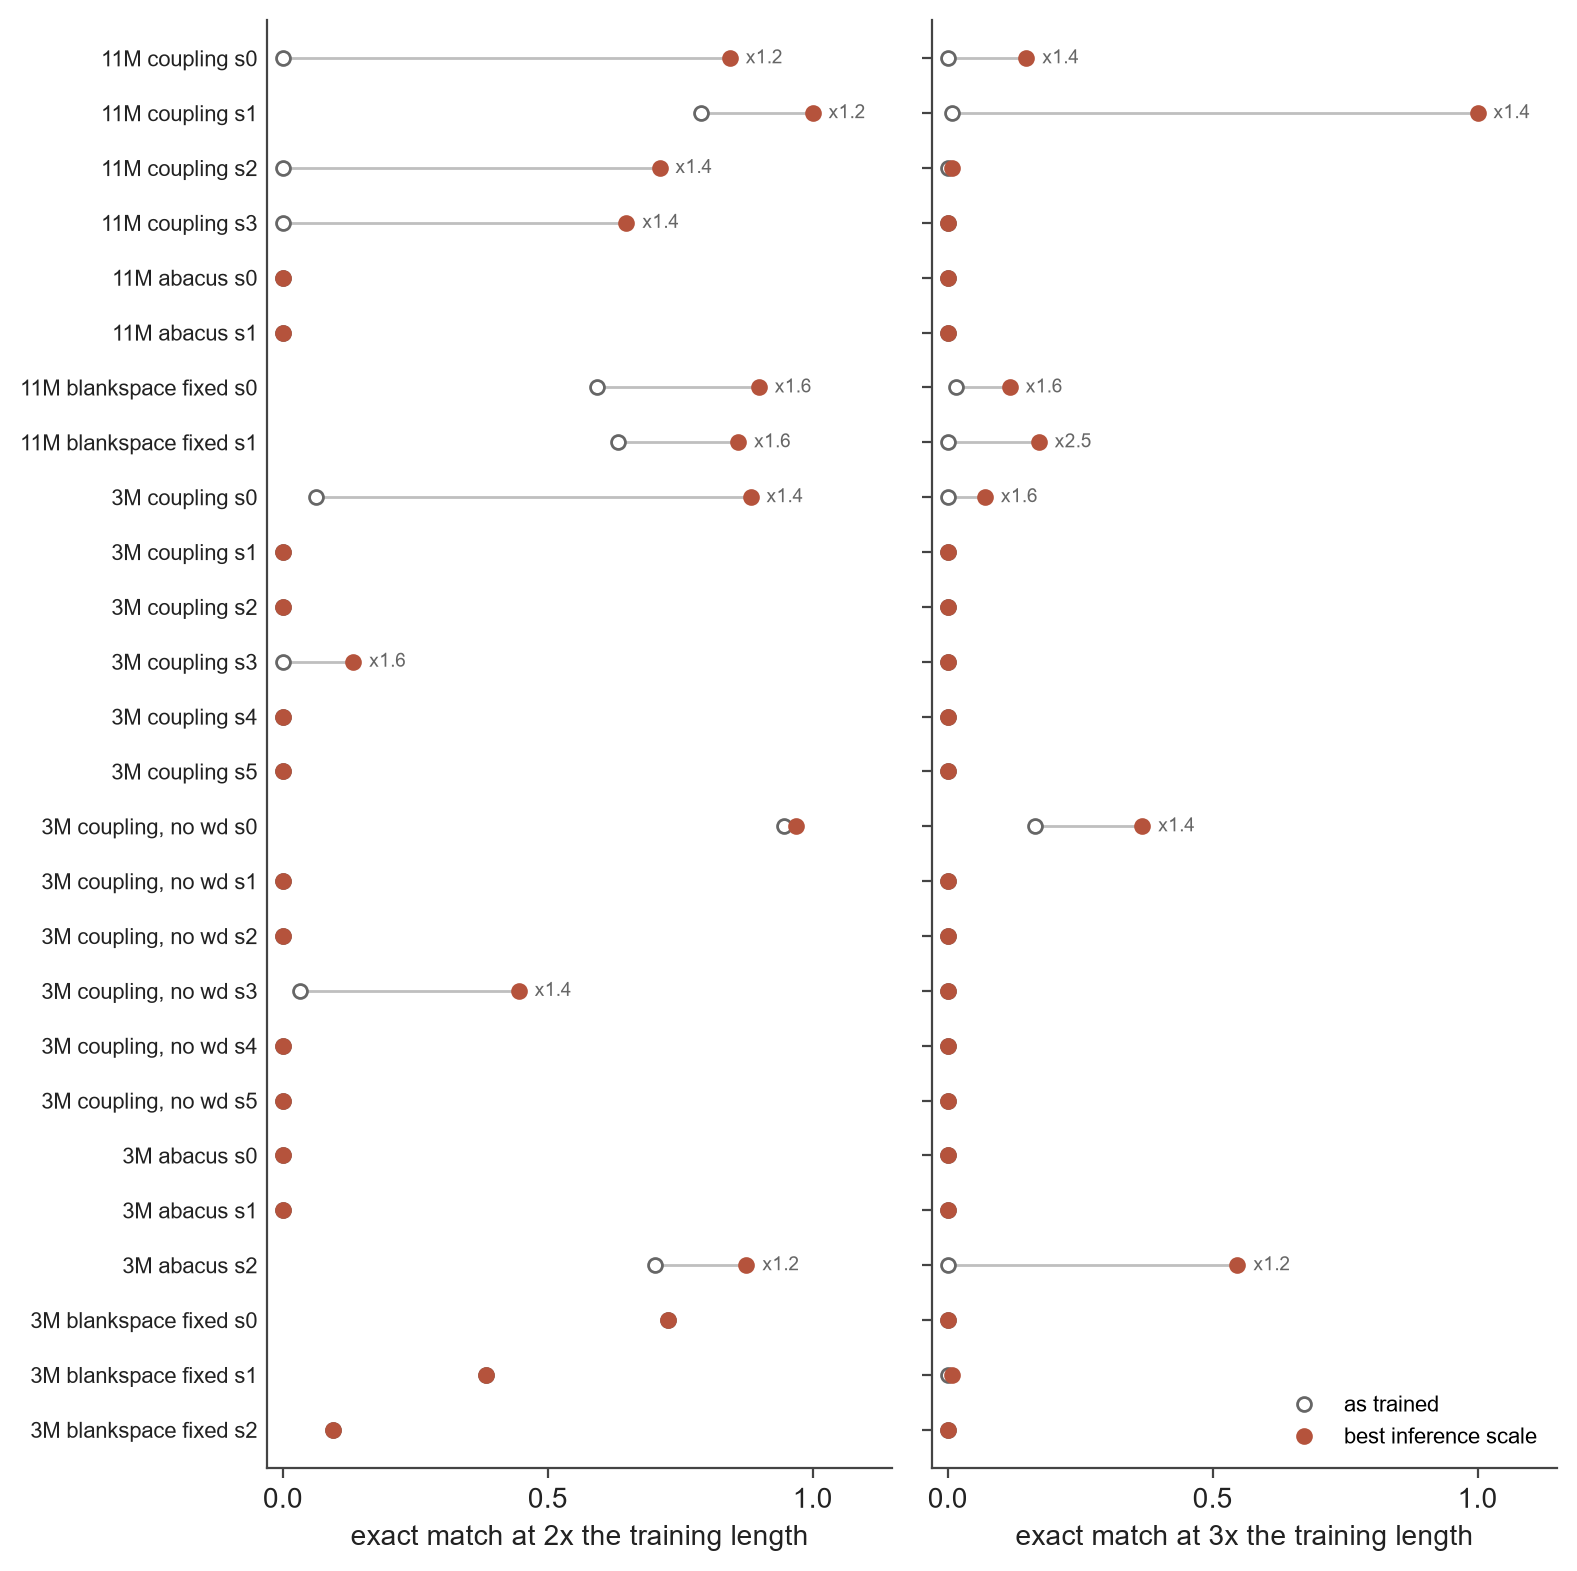
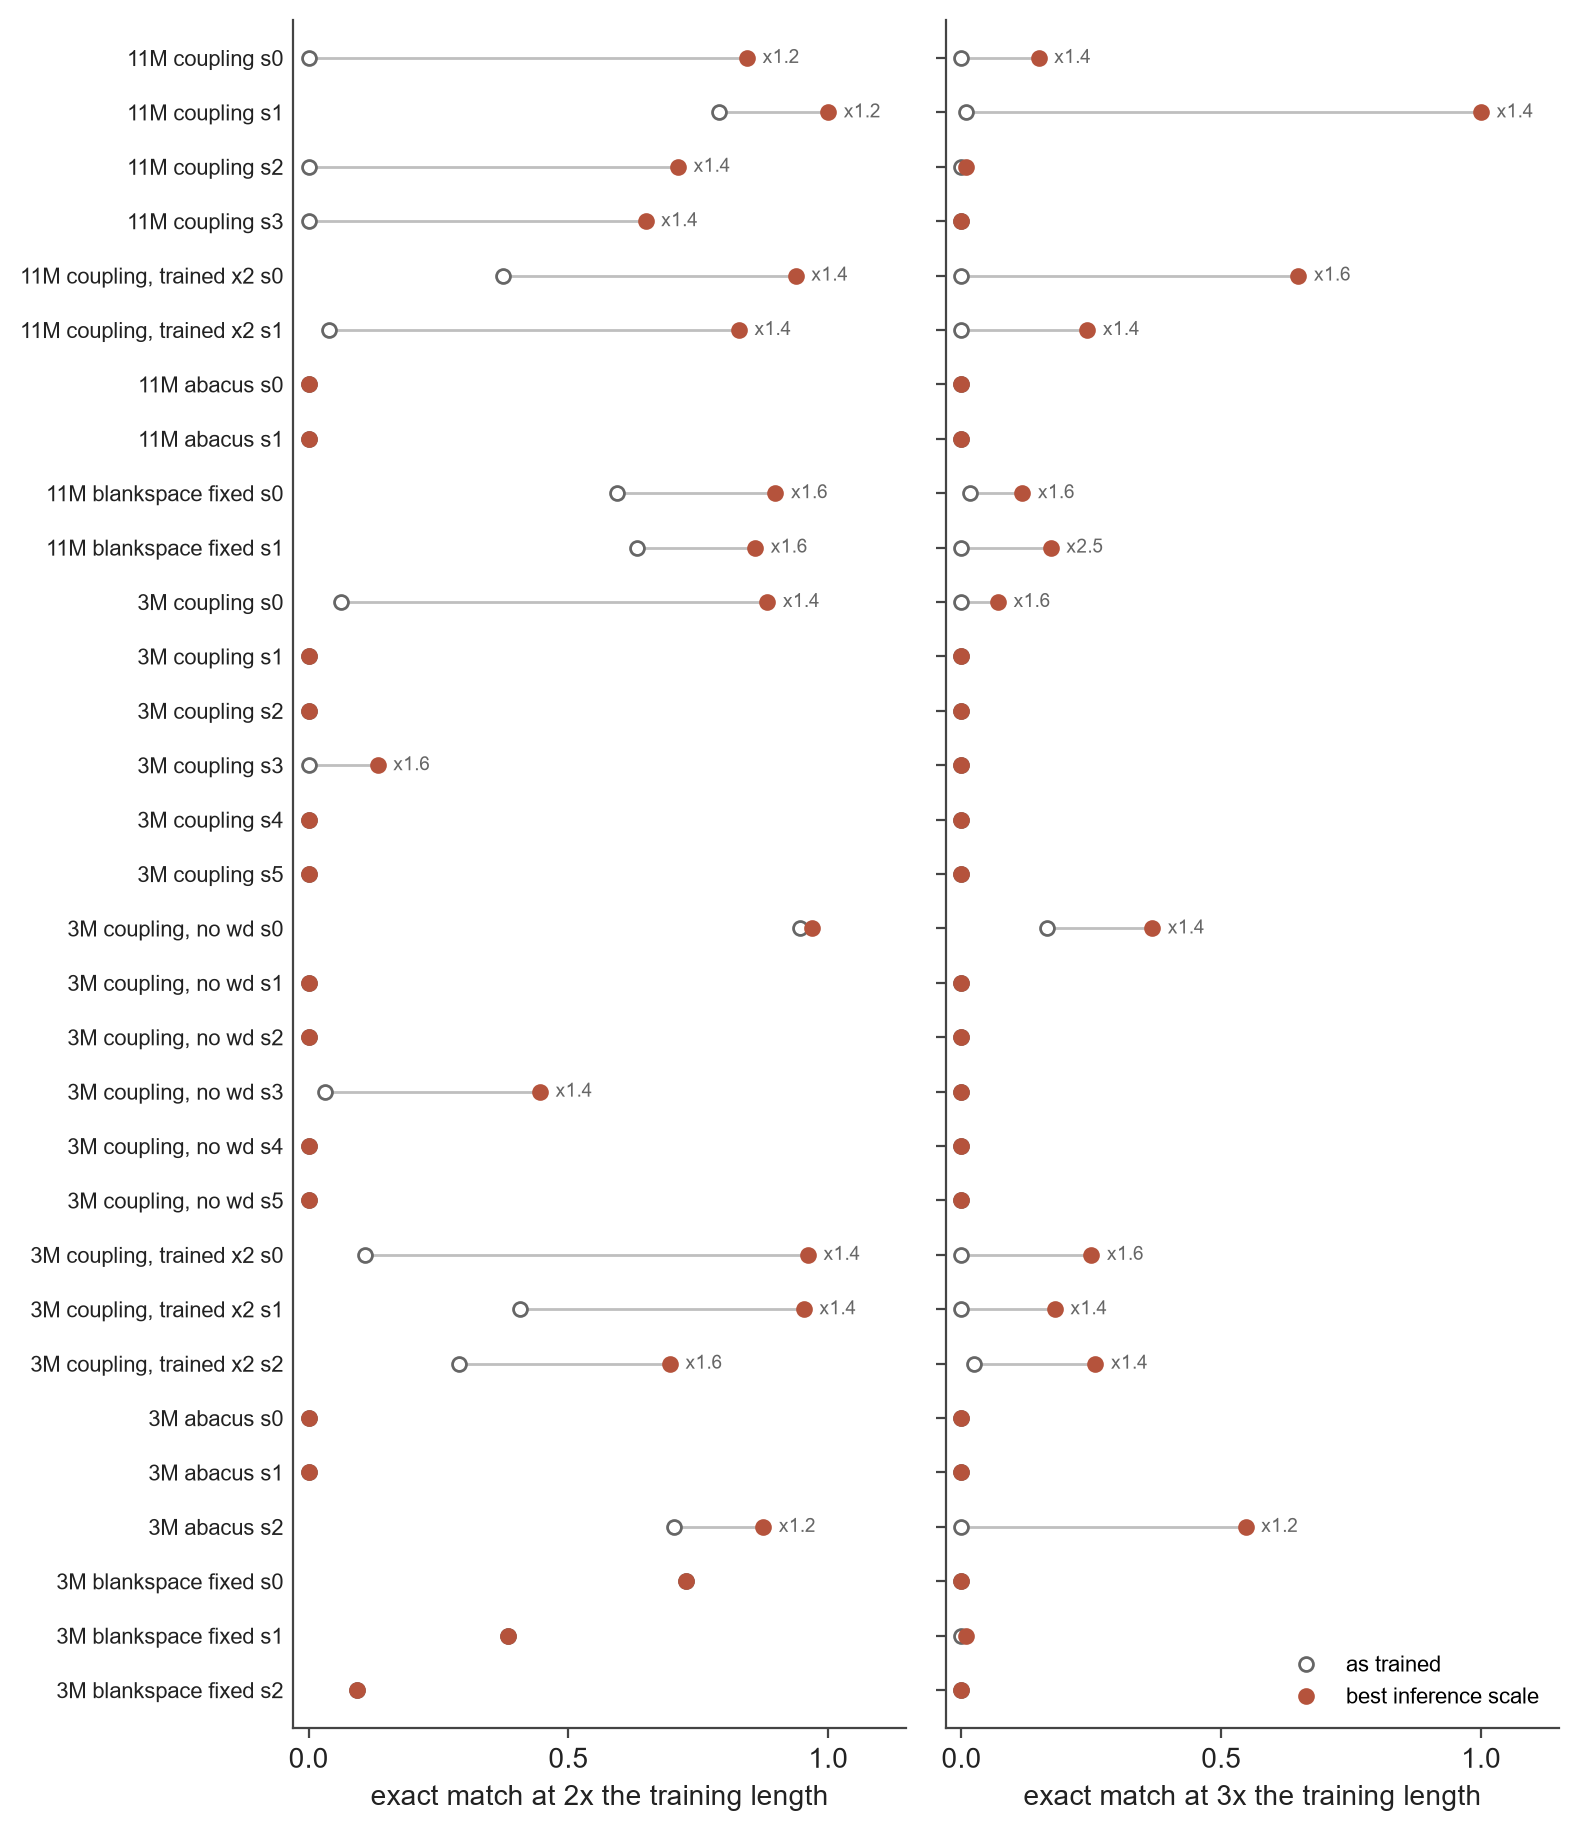
write up that inference sharpening stacks on training-time temperature

diff --git a/paper/main.tex b/paper/main.tex
@@ -142,7 +142,7 @@ seed 1, logits $\times$ & 60 & 80 & 100 & 120 & 150 & 200 \\
 \begin{figure}[H]
 \centering
 \includegraphics[width=0.95\linewidth]{sharpening_reach.png}
-\caption{Exact match at 2$\times$ (left) and 3$\times$ (right) the training length for every run, as trained (open) and at the best inference scale (filled), with that scale marked when the gain is at least 5 points. Best scale chosen per run and per length from $\{1, 1.2, 1.4, 1.6, 2, 2.5\}$.}
+\caption{Exact match at 2$\times$ (left) and 3$\times$ (right) the training length for every run, as trained (open) and at the best inference scale (filled), with that scale marked when the gain is at least 5 points. Best scale chosen per run and per length from $\{1, 1.2, 1.4, 1.6, 2, 2.5\}$, applied on top of whatever scale the run was trained with (2 for the rows marked ``trained x2'', 1 otherwise).}
 \label{fig:reach}
 \end{figure}
 
@@ -154,7 +154,7 @@ seed 1, logits $\times$ & 60 & 80 & 100 & 120 & 150 & 200 \\
 \caption{Exact match past the training length for the 11M position-coupling models when the attention logits are scaled by 2 in a subset of layers. Left: one layer at a time. Middle: the first $k$ layers; $k=0$ is the trained model and $k=6$ is every layer. Right: every layer except one. Bold: the seed that reaches 200 digits with all layers scaled. Faint: the seed that does not.}
 \label{fig:layers}
 \end{figure}
-\paragraph{Sharpening during training.} If softness is the problem, a fixed temperature in the forward pass during training might prevent it. We trained position-coupling models with every head's logits multiplied by 2 throughout training, three small seeds and two large. On the small model this made generalization more reliable: all three seeds reach 85--100\% at 30 digits, where two of six ordinary seeds do, and two of three exceed 40\% at 40 digits, where one of six ordinary seeds does. It did not prevent the erosion (Figure~\ref{fig:erosion}, bottom left and bottom right): the best small seed peaked at 91\% on 40 digits at step 10k and finished at 28\%, and one large seed peaked at 92\% on 60 digits and 32\% on 80 at step 20k and finished at 4\% and 0. Whatever the training dynamics are doing to these circuits, a constant temperature does not stop it; it makes the circuit more likely to form and leaves it just as likely to be lost.
+\paragraph{Sharpening during training.} If softness is the problem, a fixed temperature in the forward pass during training might prevent it. We trained position-coupling models with every head's logits multiplied by 2 throughout training, three small seeds and two large. On the small model this made generalization more reliable: all three seeds reach 85--100\% at 30 digits, where two of six ordinary seeds do, and two of three exceed 40\% at 40 digits, where one of six ordinary seeds does. It did not prevent the erosion (Figure~\ref{fig:erosion}, bottom left and bottom right): the best small seed peaked at 91\% on 40 digits at step 10k and finished at 28\%, and one large seed peaked at 92\% on 60 digits and 32\% on 80 at step 20k and finished at 4\% and 0. Whatever the training dynamics are doing to these circuits, a constant temperature does not stop it; it makes the circuit more likely to form and leaves it just as likely to be lost. The two knobs do stack, and the training-time one changes who benefits from the inference-time one. Applying a further factor of 1.4 to 1.6 on top of the trained temperature (Figure~\ref{fig:reach}, rows marked ``trained x2'') takes all five temperature-trained seeds from 4--41\% to 70--96\% at twice the training length, and the best large seed from 0 to 65\% at 100 digits. Every temperature-trained seed is recoverable; among ordinarily trained seeds only the minority that generalized at some point are.
 
 \section{Related work}
 

diff --git a/README.md b/README.md
@@ -255,7 +255,10 @@ Two ablations on the small coupling model, then more seeds of everything:
   two of six ordinary seeds do, so it makes the circuit more likely to form.
   It does not stop the erosion. The best small seed peaked at 91% on 40 digits
   and finished at 28%; one 11M seed peaked at 92% on 60 digits and finished
-  at 4%.
+  at 4%. But it changes who the inference knob helps: a further 1.4x on top
+  of the trained temperature lifts all five of these seeds to 70 to 96% at
+  twice the training length, where ordinary training only produces such a
+  seed a third of the time (the "trained x2" rows of the reach figure below).
 
 So the erosion is real but not universal, and neither the schedule, weight
 decay, nor a constant attention temperature explains it. What is solid is the practical point: papers reporting
